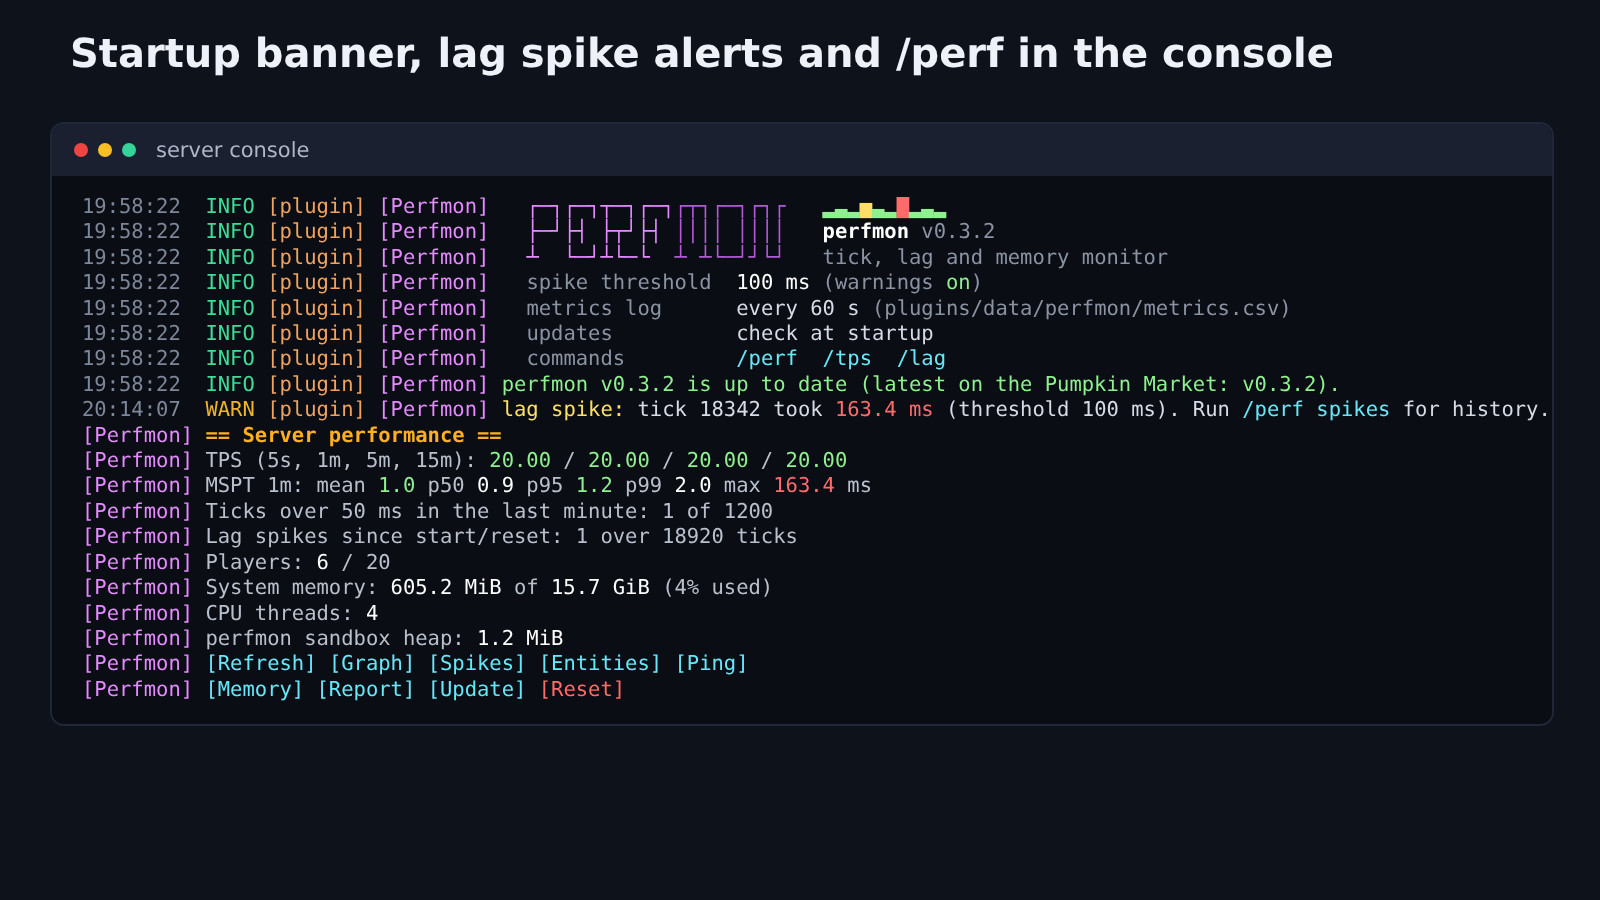
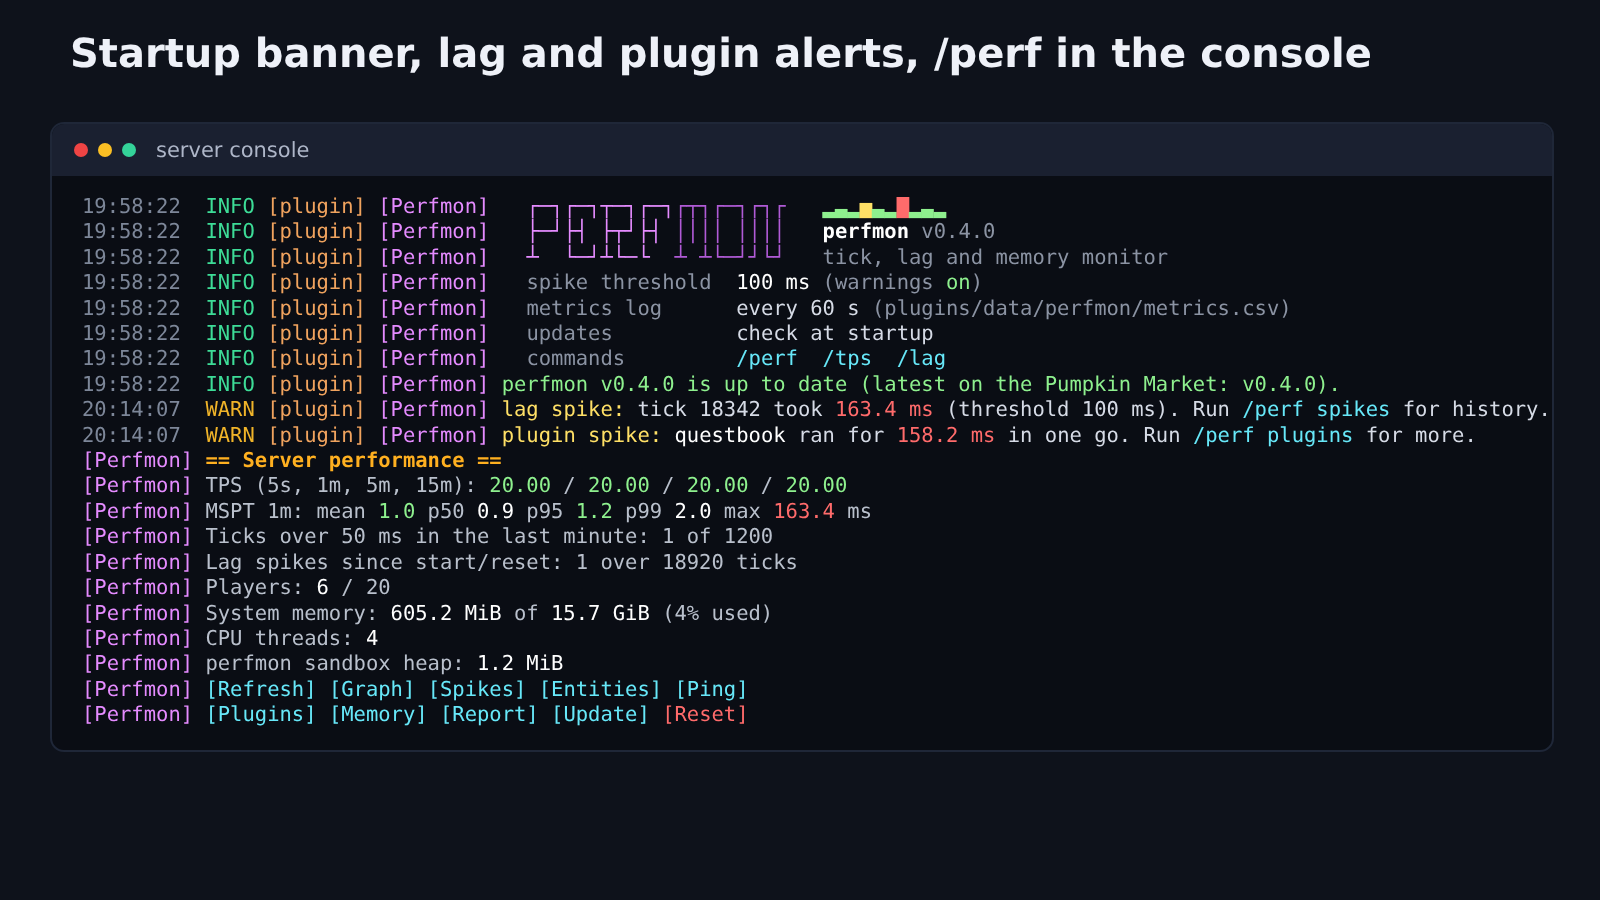
Market: screenshots for 0.4.0, a plugin watch screenshot, plugin settings in the description

Changed region(s): [[0.0312, 0.4667, 0.9062, 0.8089], [0.3125, 0.0311, 0.875, 0.0933], [0.5938, 0.2489, 0.625, 0.28]]

diff --git a/market/description.md b/market/description.md
@@ -24,6 +24,8 @@
 
 ![Tick-time graph](https://raw.githubusercontent.com/Xathr/Perfmon/main/market/screenshot-graph.png)
 
+![Plugin watch](https://raw.githubusercontent.com/Xathr/Perfmon/main/market/screenshot-plugins.png)
+
 ## Setup
 
 1. Put `Perfmon.wasm` in your server's `plugins/` folder and start the server.
@@ -63,6 +65,12 @@ console_colors = true           # coloured console output
 update_check = true             # ask the Pumpkin Market for the latest version at startup
 update_notify_ops = true        # tell operators in game when a newer version is out
 update_download = false         # download a newer, signed Perfmon.wasm into the data folder at startup
+plugins = []                    # plugins to ask for a report, by name; ones that introduce themselves need no entry
+plugin_poll_secs = 1            # how often watched plugins are asked; 0 turns plugin watching off
+plugin_lag_ms = 5.0             # warn when a plugin uses this much of every tick, averaged over a minute
+plugin_spike_ms = 25            # one run of a plugin's code this long is a plugin spike
+plugin_leak_mb = 8              # warn when a plugin's memory grew steadily by this much in 10 minutes
+warn_on_plugin_problem = true   # log plugin lag, spikes and suspected leaks to the console
 ```
 
 ## Permissions it asks for

diff --git a/market/listing.md b/market/listing.md
@@ -11,7 +11,7 @@ Copy each field into the Store Listing form at market.pumpkinmc.org.
 | Version | 0.4.0 |
 | Binary | `Perfmon.wasm` from the latest release of this repository |
 | Icon | `logo.png` (512×512) |
-| Screenshots | `screenshot-perf.png`, `screenshot-graph.png`, `screenshot-console.png` (1600×900 each) |
+| Screenshots | `screenshot-perf.png`, `screenshot-graph.png`, `screenshot-plugins.png`, `screenshot-console.png` (1600×900 each) |
 | Source link | https://github.com/Xathr/Perfmon |
 | Keywords | performance, tps, lag, mspt, profiler, monitor, debug, memory, entities, admin |
 | Description | contents of `description.md` |

diff --git a/README.md b/README.md
@@ -78,6 +78,8 @@ requests are plain GETs of public Market data, with the running perfmon version.
 
 `/perf plugins` shows what other plugins cost:
 
+![/perf plugins in game](market/screenshot-plugins.png)
+
 ```
 cascade v0.1.0  memory 1.3 MiB (+0.2 MiB in 10 min)  work 0.21 ms/tick (0.4% of a tick)  runs 20/s
   npcs 3 · displays 4 · shown 7
